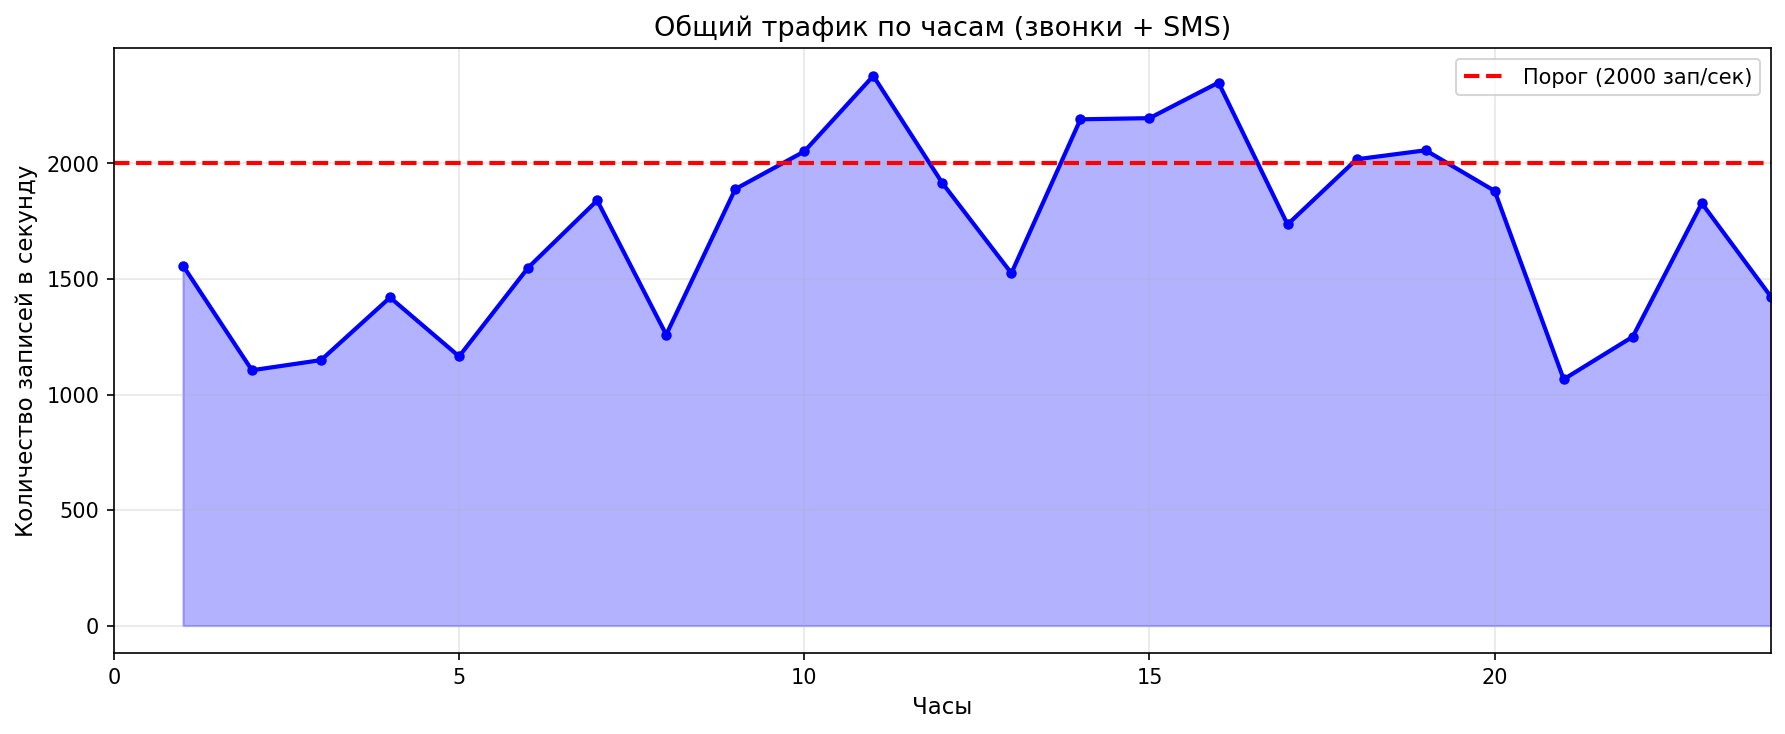
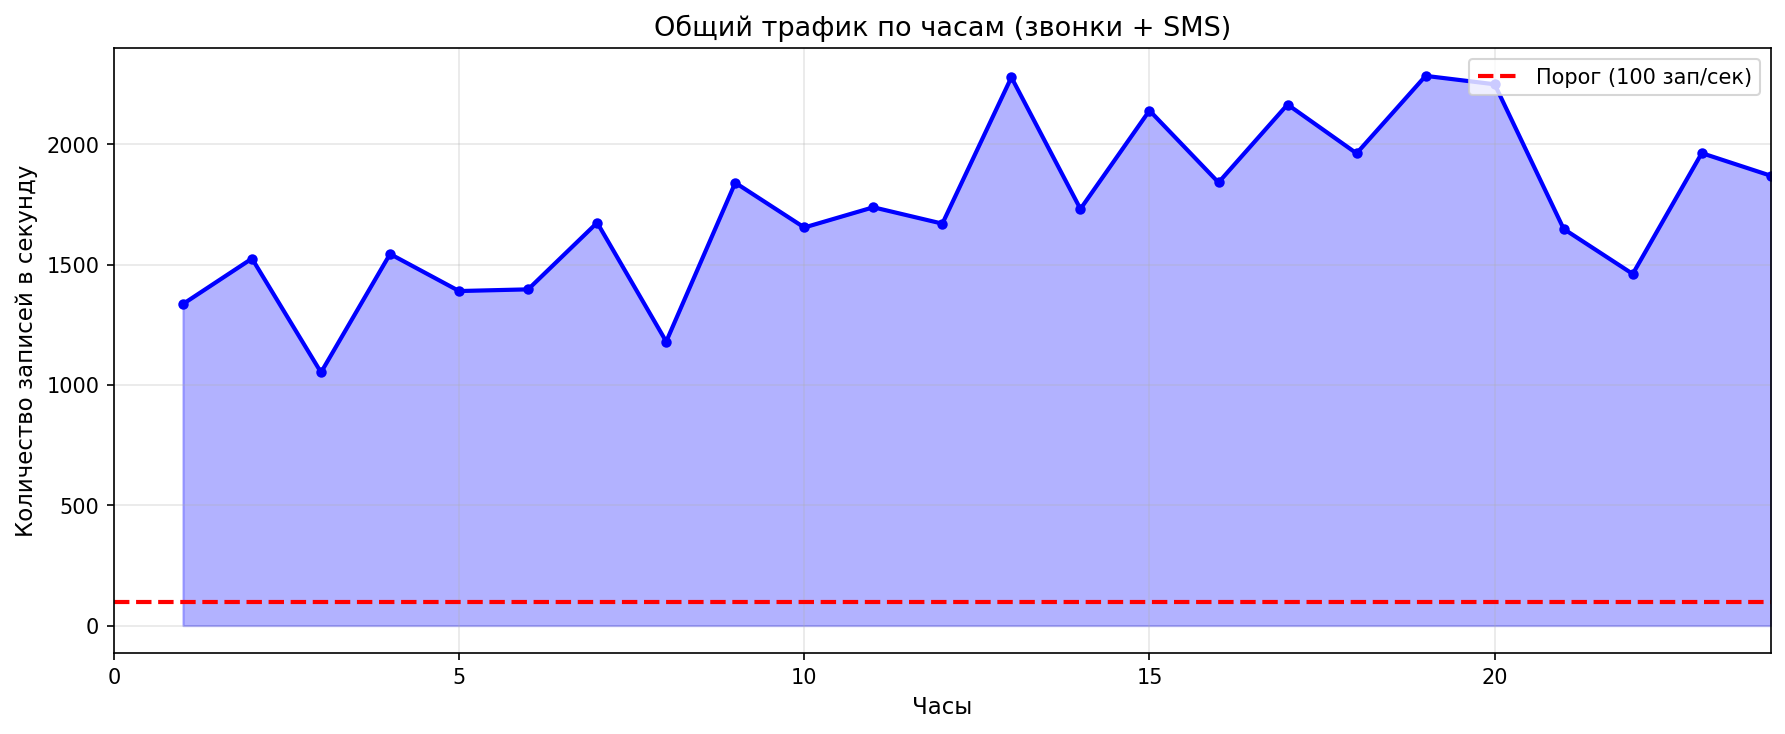
Инд.часть ИЗМЕНЕНИЕ №5

diff --git a/individual.py b/individual.py
@@ -39,11 +39,11 @@ print("-" * 40)
 
 # Параметры из ТЗ
 ABONENTS = 16000                    # абонентская база
-CALLS_PER_DAY_PER_USER = 4          # звонков в день на абонента
-SMS_PER_DAY_PER_USER = 2           # SMS в день на абонента
-STORAGE_LIMIT_GB = 500             # лимит хранилища (ГБ)
-CRITICAL_FREE_PERCENT = 10          # критический порог свободного места (%)
-RATE_LIMIT_PER_SEC = 2000           # порог скорости потока (записей/сек)
+CALLS_PER_DAY_PER_USER = 500          # звонков в день на абонента
+SMS_PER_DAY_PER_USER = 100         # SMS в день на абонента
+STORAGE_LIMIT_GB = 100             # лимит хранилища (ГБ)
+CRITICAL_FREE_PERCENT = 5          # критический порог свободного места (%)
+RATE_LIMIT_PER_SEC = 100           # порог скорости потока (записей/сек)
 BUFFER_CAPACITY = 10000            # емкость буфера (записей)
 
 # Символьные переменные для расчетов
